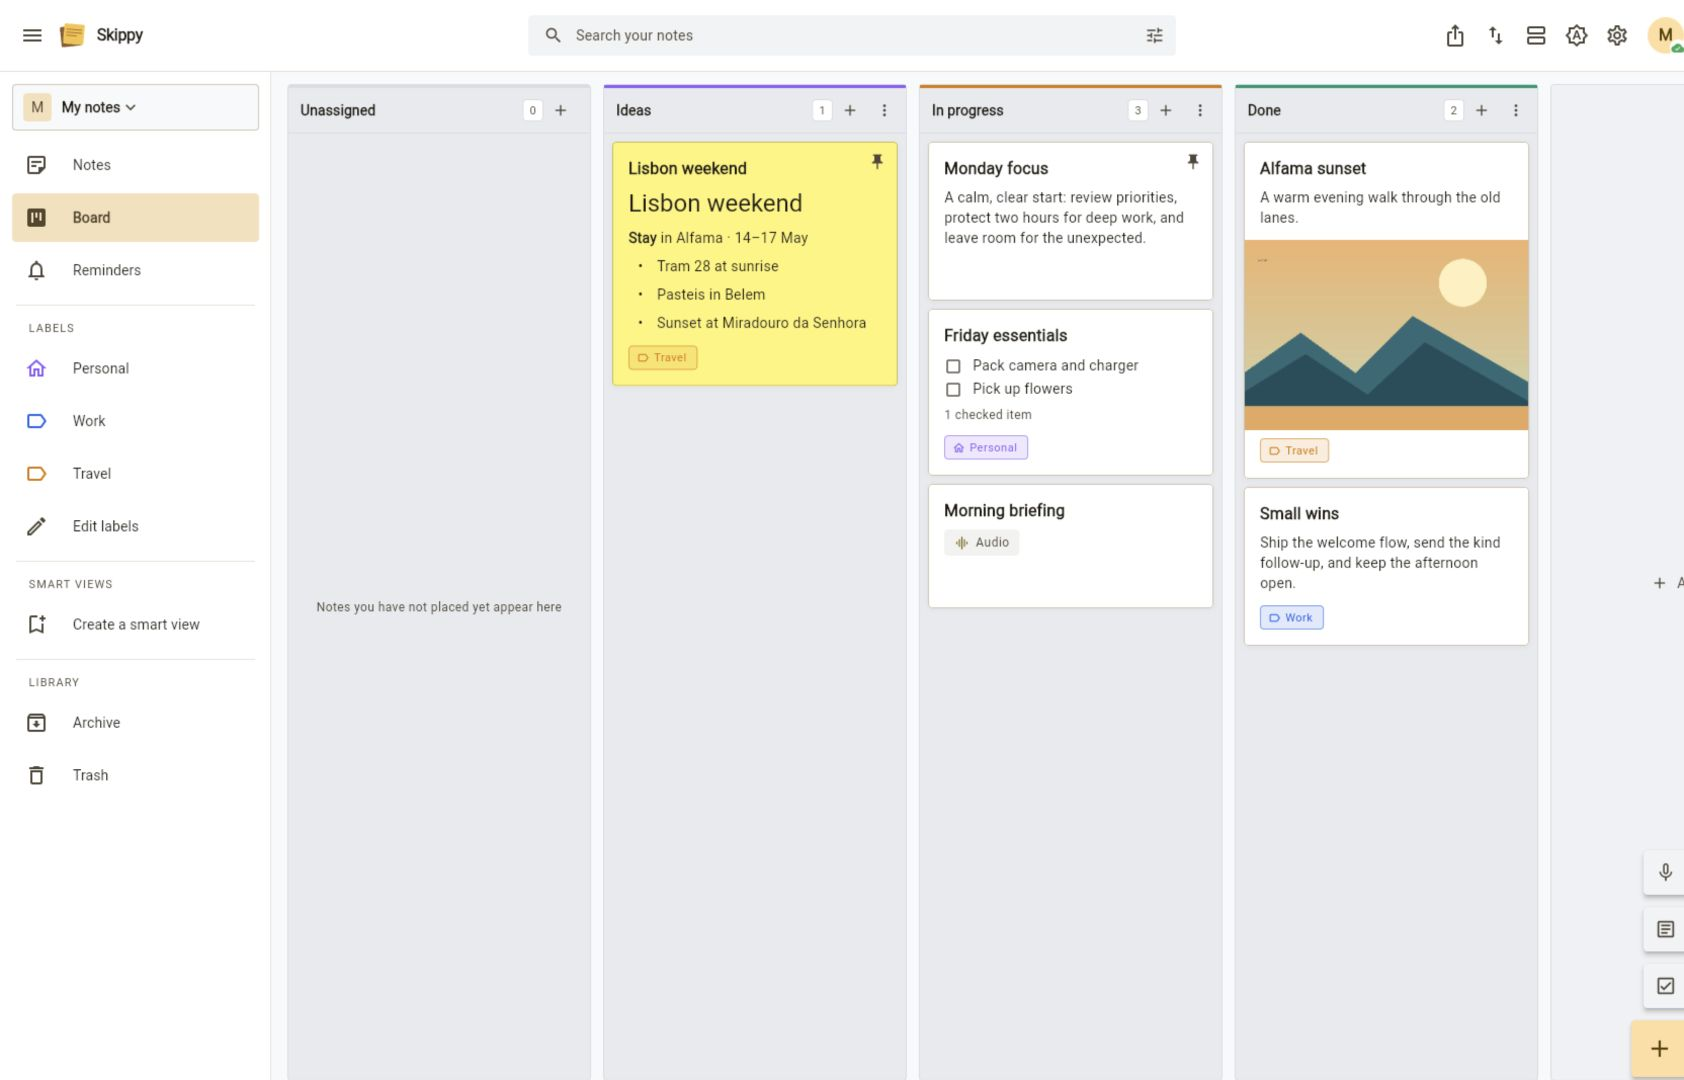
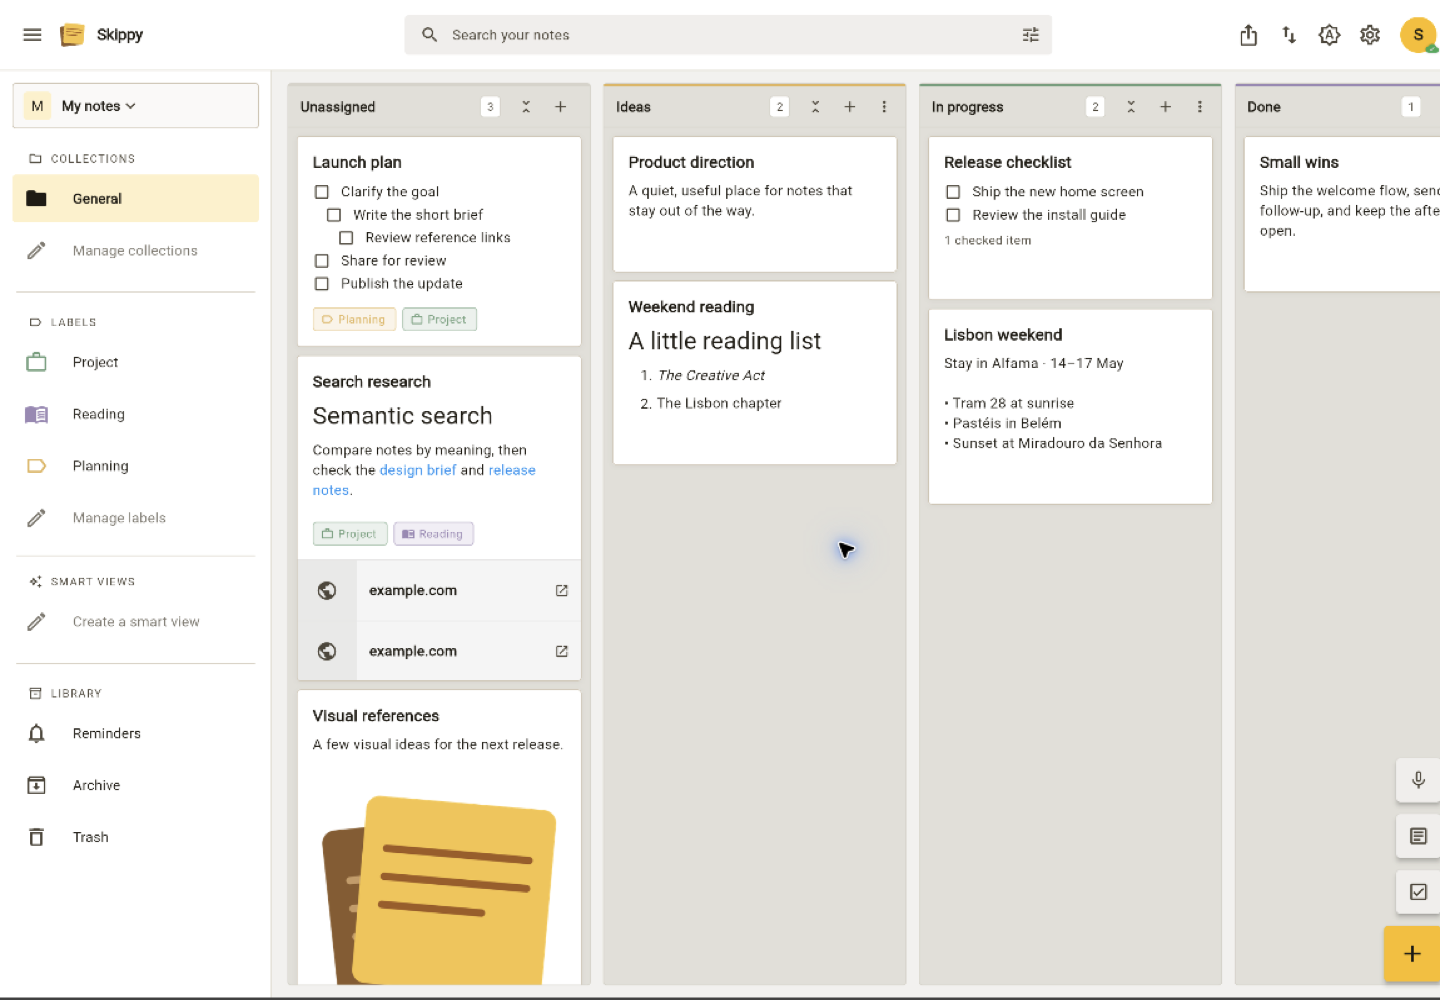
Polish board collapse controls and refresh screenshots

diff --git a/app/lib/widgets/board/board_column_view.dart b/app/lib/widgets/board/board_column_view.dart
@@ -380,7 +380,7 @@ class _BoardColumnHeader extends StatelessWidget {
               ),
               if (onToggleCollapsed != null)
                 IconButton(
-                  icon: const Icon(Icons.unfold_less, size: 18),
+                  icon: const Icon(Icons.keyboard_double_arrow_left, size: 20),
                   tooltip: 'Collapse ${column.title}',
                   visualDensity: VisualDensity.compact,
                   constraints: const BoxConstraints.tightFor(
@@ -467,29 +467,41 @@ class _CollapsedColumn extends StatelessWidget {
       message: 'Expand ${column.title}',
       child: InkWell(
         onTap: onExpand,
+        mouseCursor: SystemMouseCursors.click,
+        borderRadius: kBorderRadius,
         child: Column(
           children: [
             _StageRule(column: column),
             Expanded(
-              child: RotatedBox(
-                quarterTurns: 3,
-                child: Row(
-                  mainAxisSize: MainAxisSize.min,
-                  children: [
-                    Icon(
-                      Icons.unfold_more,
-                      size: 18,
-                      color: scheme.onSurfaceVariant,
-                    ),
-                    const SizedBox(width: 6),
-                    Text(
+              child: Column(
+                mainAxisAlignment: MainAxisAlignment.center,
+                children: [
+                  Icon(
+                    Icons.keyboard_double_arrow_right,
+                    size: 20,
+                    color: scheme.onSurfaceVariant,
+                  ),
+                  const SizedBox(height: 8),
+                  RotatedBox(
+                    quarterTurns: 3,
+                    child: Text(
                       '${column.title} (${column.totalCount})',
                       style: Theme.of(context).textTheme.labelLarge?.copyWith(
                         color: scheme.onSurfaceVariant,
                       ),
                     ),
-                  ],
-                ),
+                  ),
+                  const SizedBox(height: 8),
+                  RotatedBox(
+                    quarterTurns: 3,
+                    child: Text(
+                      'Expand',
+                      style: Theme.of(context).textTheme.labelSmall?.copyWith(
+                        color: scheme.onSurfaceVariant,
+                      ),
+                    ),
+                  ),
+                ],
               ),
             ),
           ],

diff --git a/app/test/board_widget_test.dart b/app/test/board_widget_test.dart
@@ -103,6 +103,8 @@ void main() {
     await tester.pumpAndSettle();
     expect(find.text('card one'), findsNothing);
     expect(find.byTooltip('Expand Unassigned'), findsOneWidget);
+    expect(find.byIcon(Icons.keyboard_double_arrow_right), findsOneWidget);
+    expect(find.text('Expand'), findsOneWidget);
     expect(
       tester.getSize(find.byType(BoardColumnView).first).width,
       lessThan(100),
